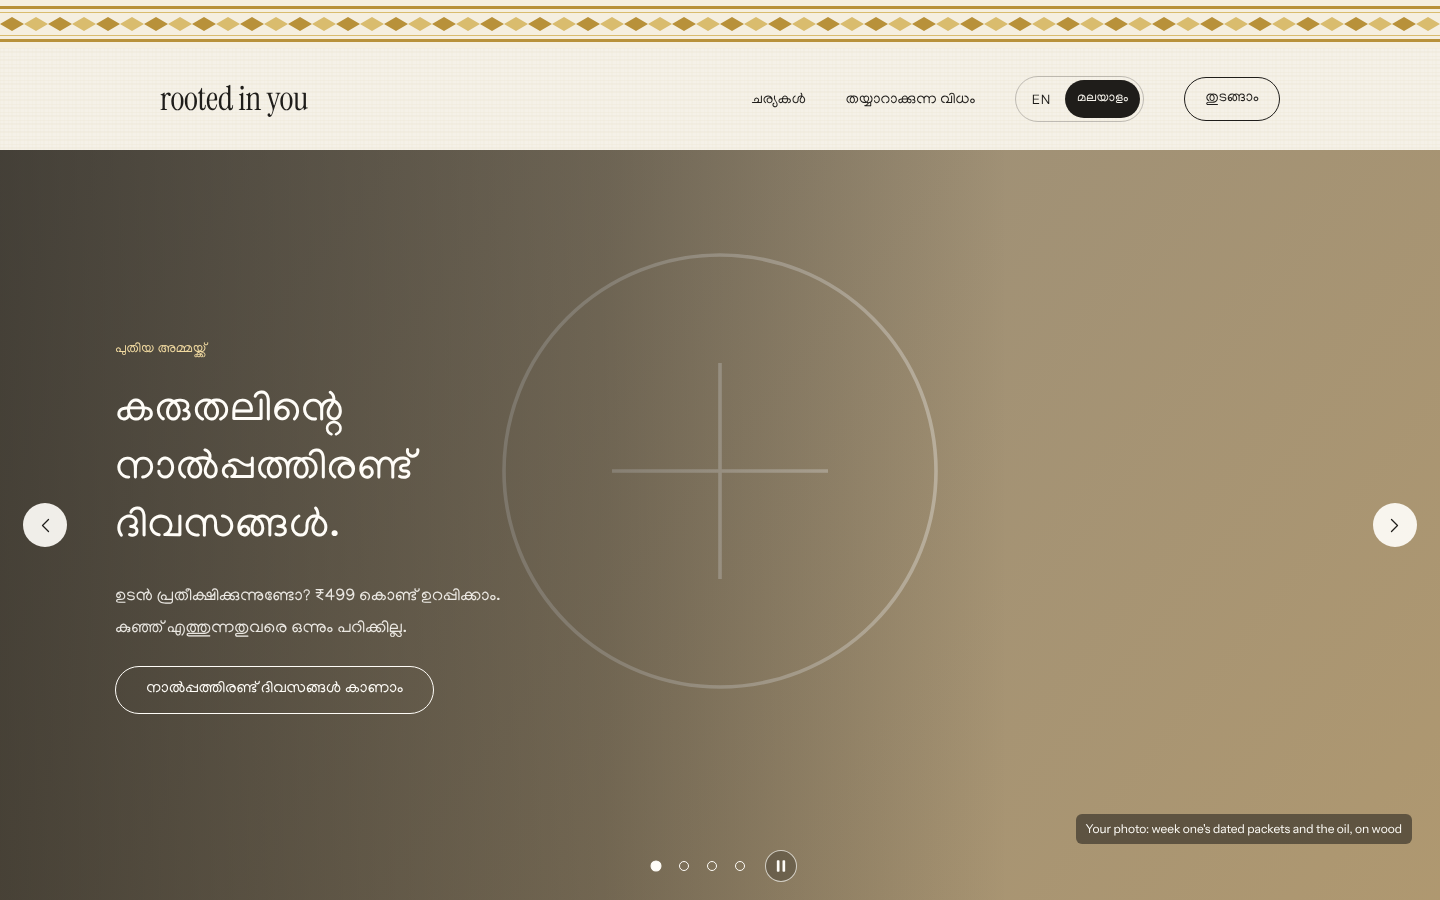
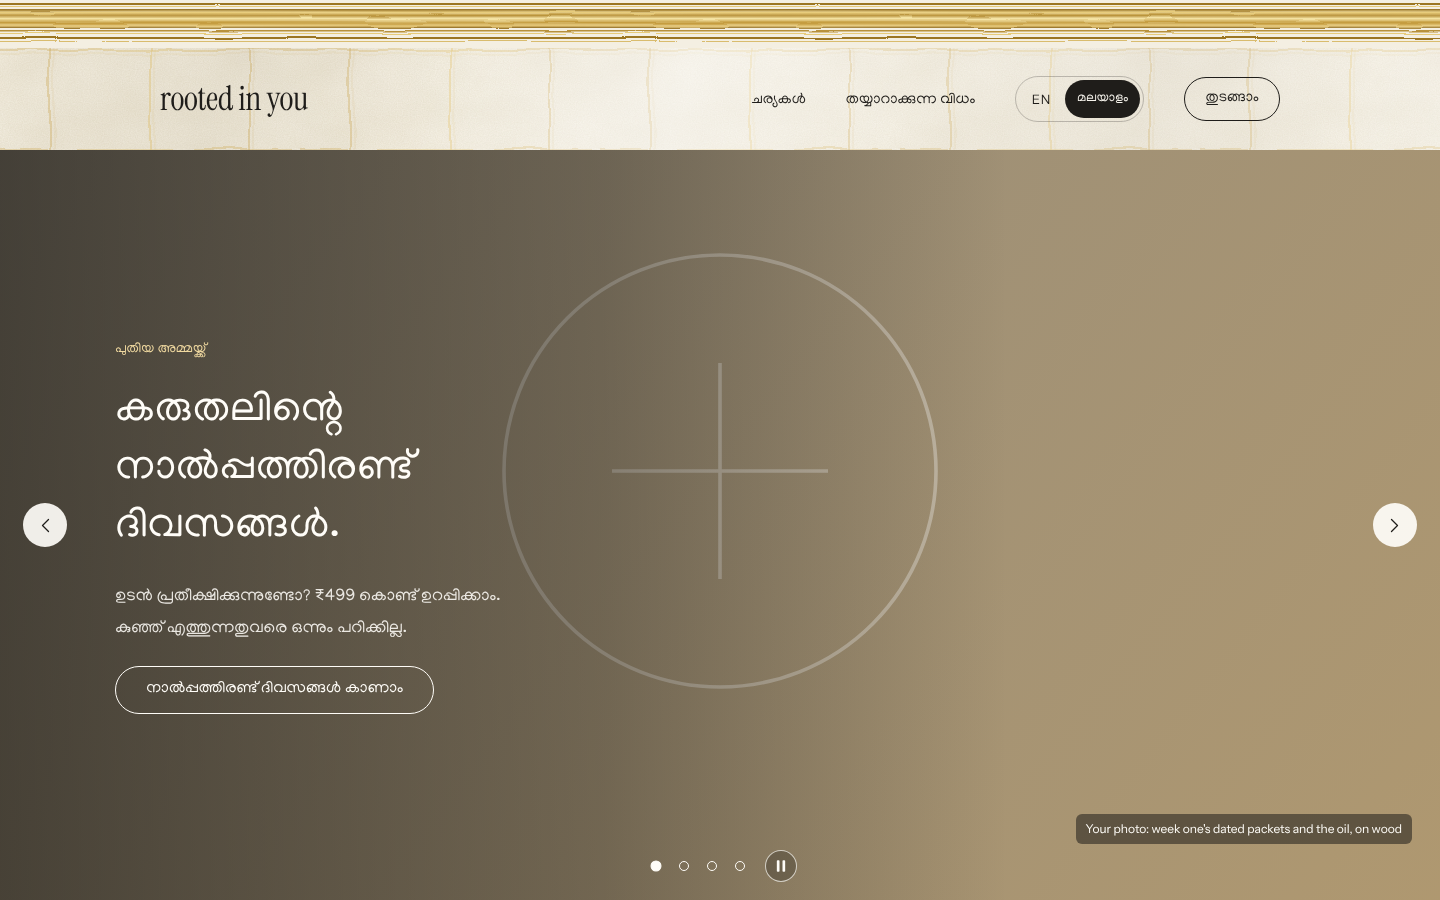
Saree-style background: woven cloth, gold thread grid, metallic kasavu band
Claude-Session: https://claude.ai/code/session_01Ls3hi7FgJfyvH5y7sfR9T8

Changed region(s): [[0.0, 0.0, 1.0, 0.1867]]

diff --git a/frontend/src/styles.css b/frontend/src/styles.css
@@ -10,13 +10,17 @@ details[open]::details-content{block-size:auto;opacity:1}
 details .kz-plus{transition:transform .7s cubic-bezier(.2,.7,.1,1)}
 details[open] .kz-plus{transform:rotate(45deg)}
 
-.kz-page{background:#F5F1E8 url(/placeholders/weave.svg) left top/8px 8px repeat;color:var(--ink);font-family:'Instrument Sans',system-ui,sans-serif;font-size:17px;line-height:1.7;min-width:0}
+.kz-page{background:
+  /* soft light & shadow folds of the cloth, fixed so they drift as you scroll */
+  linear-gradient(112deg,rgba(110,90,50,0) 0%,rgba(110,90,50,.07) 14%,rgba(110,90,50,0) 26%,rgba(255,255,255,.38) 40%,rgba(255,255,255,0) 52%,rgba(110,90,50,.06) 66%,rgba(110,90,50,0) 78%,rgba(255,255,255,.25) 90%,rgba(255,255,255,0) 100%) fixed,
+  radial-gradient(120% 70% at 85% 0%,rgba(255,255,255,.35),rgba(255,255,255,0) 60%) fixed,
+  url(/placeholders/weave.svg) left top/300px 300px repeat,#F4EFE2;color:var(--ink);font-family:'Instrument Sans',system-ui,sans-serif;font-size:17px;line-height:1.7;min-width:0}
 .serif{font-family:'Instrument Serif',serif}
 .ml{font-family:'Manjari',sans-serif;font-style:normal;letter-spacing:0}
 .serif .ml{font-weight:400;font-size:max(.62em,16px);line-height:1.35;display:inline-block}
 
-.kz-kasavu{position:relative;overflow:hidden;height:48px;background:url(/placeholders/kasavu.svg) repeat-x left center/auto 100%}
-.kz-kasavu::after{content:"";position:absolute;inset:0;background:linear-gradient(90deg,transparent,rgba(255,247,222,.85),transparent) no-repeat;background-size:28% 100%;background-position:-40% 0;-webkit-mask:url(/placeholders/kasavu.svg) repeat-x left center/auto 100%;mask:url(/placeholders/kasavu.svg) repeat-x left center/auto 100%;animation:kz-sheen 11s ease-in-out infinite 1.5s}
+.kz-kasavu{position:relative;overflow:hidden;height:48px;background:url(/placeholders/kasavu.svg) repeat-x left center/600px 100%}
+.kz-kasavu::after{content:"";position:absolute;inset:0;background:linear-gradient(90deg,transparent,rgba(255,247,222,.85),transparent) no-repeat;background-size:28% 100%;background-position:-40% 0;-webkit-mask:url(/placeholders/kasavu.svg) repeat-x left center/600px 100%;mask:url(/placeholders/kasavu.svg) repeat-x left center/600px 100%;animation:kz-sheen 11s ease-in-out infinite 1.5s}
 @keyframes kz-sheen{0%{background-position:-40% 0}30%{background-position:140% 0}100%{background-position:140% 0}}
 .kz-thread{stroke-dasharray:640;stroke-dashoffset:640;animation:kz-draw 3.2s cubic-bezier(.4,0,.2,1) .4s forwards}
 @keyframes kz-draw{to{stroke-dashoffset:0}}
